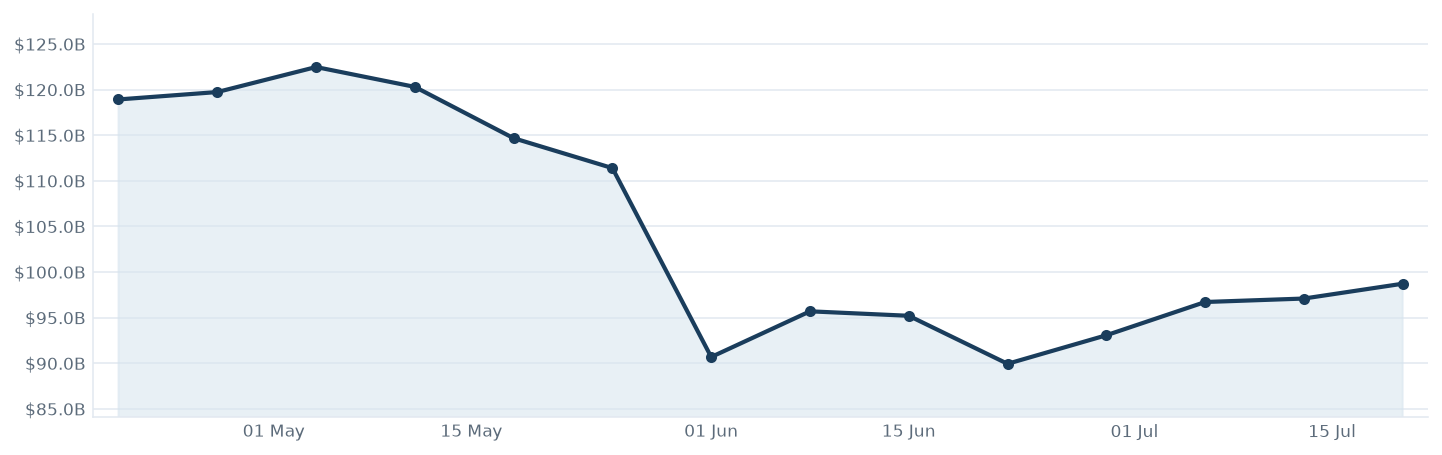
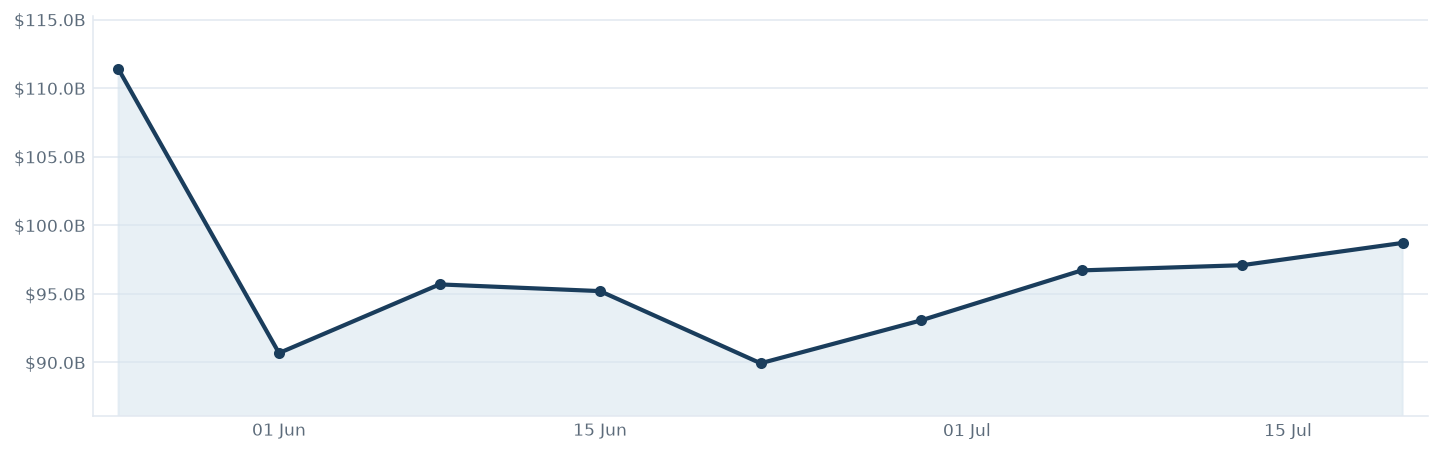
Shorten the stablecoin and ETP newsletter charts to two months.
An eight-to-nine-week window keeps the weekly path readable without turning the brief into a quarterly chart.

diff --git a/newsletter_weekly_charts.py b/newsletter_weekly_charts.py
@@ -30,7 +30,7 @@ USER_AGENT = (
 
 TMMF_SERIES = "tmmf"
 STABLE_SERIES = "stablecoins"
-CHART_LOOKBACK_DAYS = 92  # last ~3 months of weekly points
+CHART_LOOKBACK_DAYS = 61  # last ~2 months of weekly points
 
 NEWSLETTER_CHART_FILES: dict[str, Path] = {
     "tmmf-weekly": CHART_DIR / "tmmf-weekly.png",
